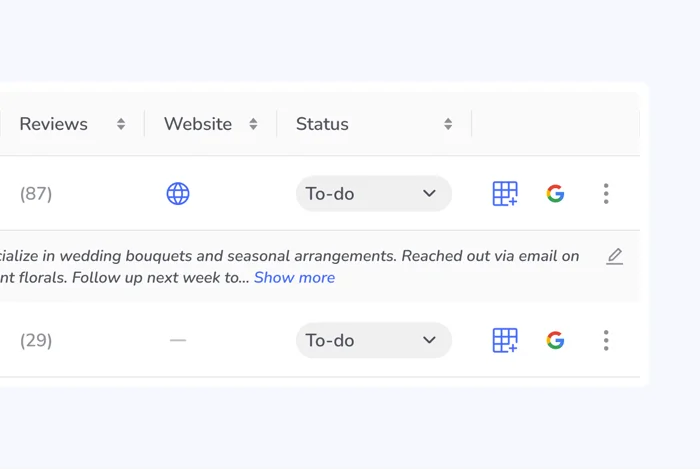
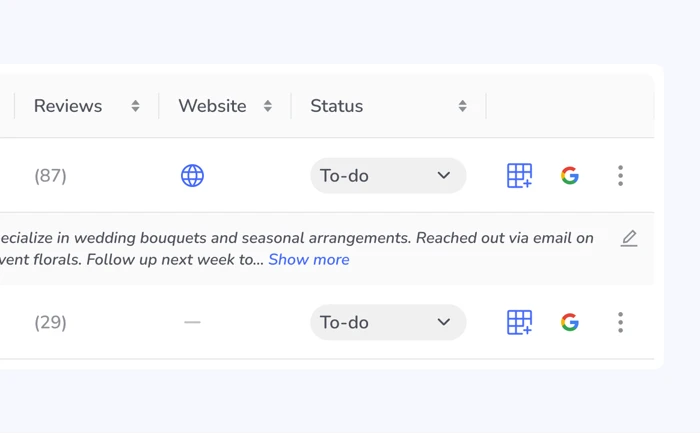
Client Acquisition: refresh ShotCard pair screenshots, drop aspect-ratio hack
New matching-size exports (700x606 / 700x433) for the b2/b4/b5 pairs
replace the mismatched originals, so ShotCard no longer needs the
object-fit/letterbox workaround to keep pair heights equal.

diff --git a/src/pages/ClientAcquisitionCaseStudy.tsx b/src/pages/ClientAcquisitionCaseStudy.tsx
@@ -267,15 +267,12 @@ function ImageMarquee({ images, height = 420, duration = 32, reverse = false }: 
 }
 
 /** Bordered image-over-text card used throughout chapter 07 (Rozwiazanie).
- * imgAspect is shared by both cards in a pair so their image frames — and
- * therefore the whole cards — come out the same height regardless of each
- * screenshot's native proportions (object-fit: contain avoids cropping). */
-function ShotCard({ img, alt, title, text, imgAspect }: { img: string; alt: string; title: string; text: string; imgAspect: string }) {
+ * Both cards in a pair use same-size source images, so a plain width:100%
+ * image keeps them at equal height with no crop or letterboxing needed. */
+function ShotCard({ img, alt, title, text }: { img: string; alt: string; title: string; text: string }) {
   return (
     <div style={{ flex: 1, minWidth: 0, height: "100%", border: "1px solid var(--pf-accent-100, #E3E9FE)", borderRadius: 24, overflow: "hidden", boxSizing: "border-box", display: "flex", flexDirection: "column" }}>
-      <div style={{ aspectRatio: imgAspect, background: "#F5F5F5", display: "flex", alignItems: "center", justifyContent: "center", overflow: "hidden", borderBottom: "1px solid var(--pf-accent-100, #E3E9FE)" }}>
-        <img src={img} alt={alt} style={{ maxWidth: "100%", maxHeight: "100%", width: "auto", height: "auto", objectFit: "contain", display: "block" }} />
-      </div>
+      <img src={img} alt={alt} style={{ width: "100%", height: "auto", display: "block", borderBottom: "1px solid var(--pf-accent-100, #E3E9FE)" }} />
       <div style={{ display: "flex", flexDirection: "column", gap: 16, padding: 32, boxSizing: "border-box", flex: 1 }}>
         <span style={{ fontFamily: "var(--pf-font-body)", fontWeight: 700, fontSize: 22, lineHeight: "34px", color: "#000" }}>{title}</span>
         <p className="pf-body" style={{ margin: 0 }}>{text}</p>
@@ -627,10 +624,10 @@ export function ClientAcquisitionCaseStudy() {
 
           <StaggerGroup style={{ display: "flex", flexWrap: "wrap", gap: 24, width: "100%", alignItems: "stretch" }}>
             <StaggerItem style={{ flex: "1 1 460px" }}>
-              <ShotCard img="/client-acquisition-s04-legacy.webp" alt="" title={t.rozwiazanie.b2[0].title} text={t.rozwiazanie.b2[0].text} imgAspect="700 / 678" />
+              <ShotCard img="/client-acquisition-s04-legacy.webp" alt="" title={t.rozwiazanie.b2[0].title} text={t.rozwiazanie.b2[0].text} />
             </StaggerItem>
             <StaggerItem style={{ flex: "1 1 460px" }}>
-              <ShotCard img="/client-acquisition-s04-generate-modal.webp" alt="" title={t.rozwiazanie.b2[1].title} text={t.rozwiazanie.b2[1].text} imgAspect="700 / 678" />
+              <ShotCard img="/client-acquisition-s04-generate-modal.webp" alt="" title={t.rozwiazanie.b2[1].title} text={t.rozwiazanie.b2[1].text} />
             </StaggerItem>
           </StaggerGroup>
 
@@ -640,19 +637,19 @@ export function ClientAcquisitionCaseStudy() {
 
           <StaggerGroup style={{ display: "flex", flexWrap: "wrap", gap: 24, width: "100%", alignItems: "stretch" }}>
             <StaggerItem style={{ flex: "1 1 460px" }}>
-              <ShotCard img="/client-acquisition-s04-growth-potential.webp" alt="" title={t.rozwiazanie.b4[0].title} text={t.rozwiazanie.b4[0].text} imgAspect="700 / 469" />
+              <ShotCard img="/client-acquisition-s04-growth-potential.webp" alt="" title={t.rozwiazanie.b4[0].title} text={t.rozwiazanie.b4[0].text} />
             </StaggerItem>
             <StaggerItem style={{ flex: "1 1 460px" }}>
-              <ShotCard img="/client-acquisition-s04-map.webp" alt="" title={t.rozwiazanie.b4[1].title} text={t.rozwiazanie.b4[1].text} imgAspect="700 / 469" />
+              <ShotCard img="/client-acquisition-s04-map.webp" alt="" title={t.rozwiazanie.b4[1].title} text={t.rozwiazanie.b4[1].text} />
             </StaggerItem>
           </StaggerGroup>
 
           <StaggerGroup style={{ display: "flex", flexWrap: "wrap", gap: 24, width: "100%", alignItems: "stretch" }}>
             <StaggerItem style={{ flex: "1 1 460px" }}>
-              <ShotCard img="/client-acquisition-s04-notes.webp" alt="" title={t.rozwiazanie.b5[0].title} text={t.rozwiazanie.b5[0].text} imgAspect="700 / 469" />
+              <ShotCard img="/client-acquisition-s04-notes.webp" alt="" title={t.rozwiazanie.b5[0].title} text={t.rozwiazanie.b5[0].text} />
             </StaggerItem>
             <StaggerItem style={{ flex: "1 1 460px" }}>
-              <ShotCard img="/client-acquisition-s04-statuses.webp" alt="" title={t.rozwiazanie.b5[1].title} text={t.rozwiazanie.b5[1].text} imgAspect="700 / 469" />
+              <ShotCard img="/client-acquisition-s04-statuses.webp" alt="" title={t.rozwiazanie.b5[1].title} text={t.rozwiazanie.b5[1].text} />
             </StaggerItem>
           </StaggerGroup>
 
